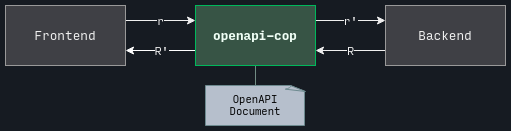
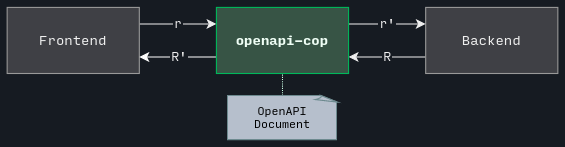
docs(readme): Update diagram images (2)

diff --git a/README.md b/README.md
@@ -17,7 +17,7 @@ The idea is to place the proxy between a client (e.g. a frontend app) and a web 
 <p align="center">
   <picture>
     <source media="(prefers-color-scheme: dark)" srcset="./orga/diagram-dark.png">
-    <img src="./orga/diagram.png" alt="Proxy Diagram" width="511">
+    <img src="./orga/diagram.png" alt="Proxy Diagram" width="565">
   </picture>
 </p>
 
